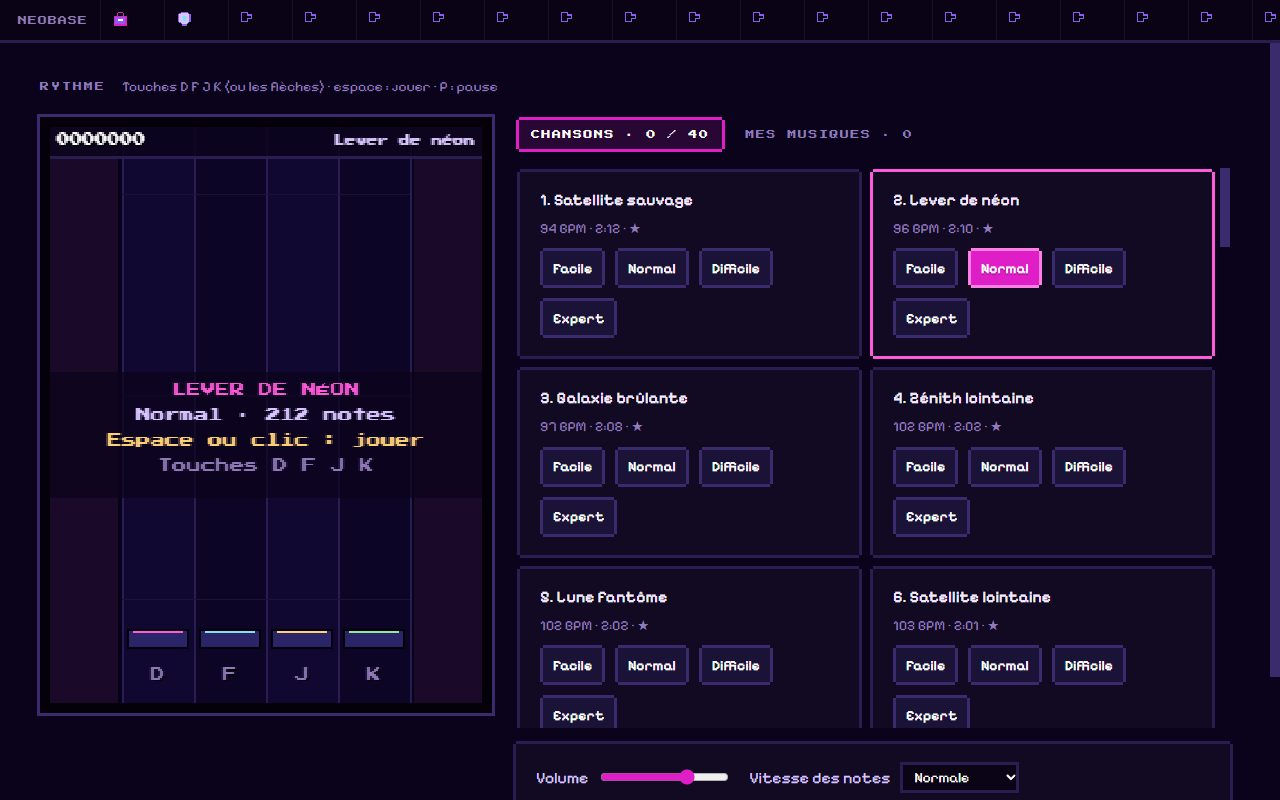
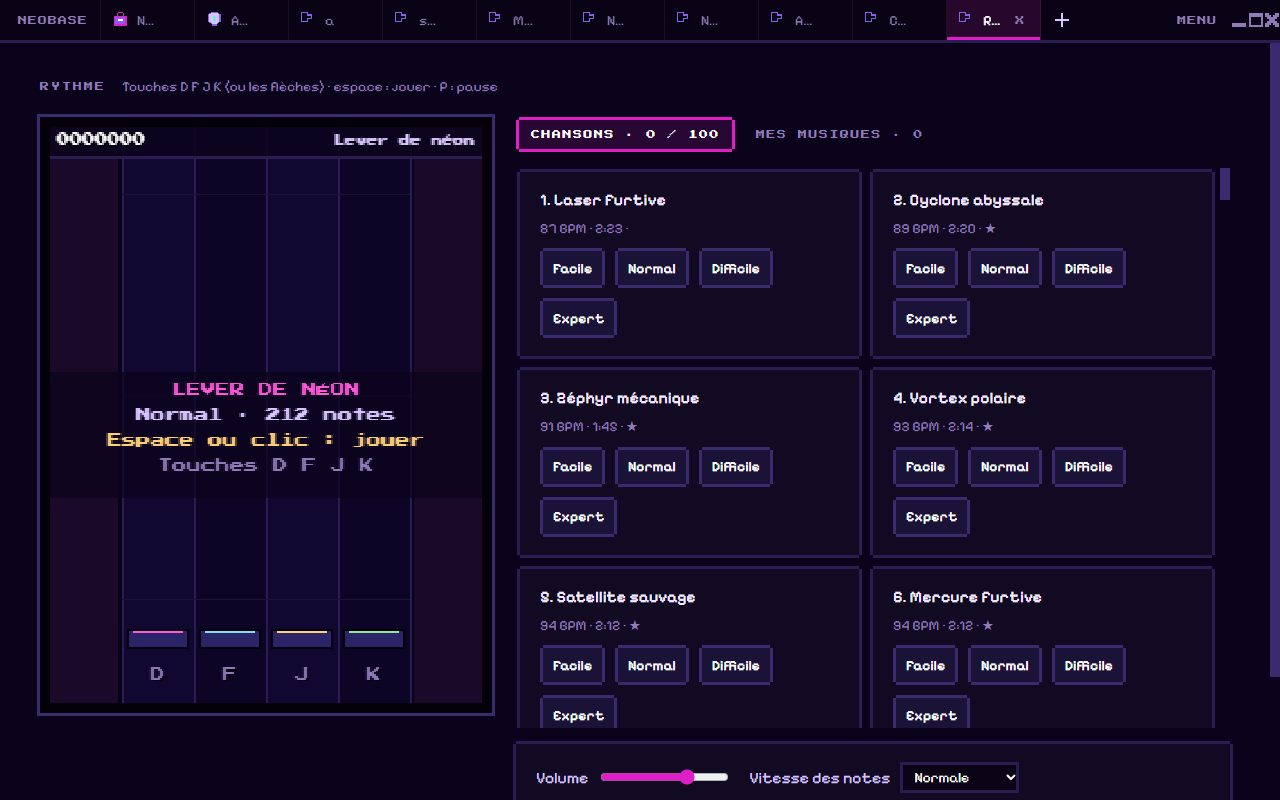
Nouvelles musiques

diff --git a/index.js b/index.js
@@ -77,7 +77,7 @@ const RH = {W: 240, H: 320, HIT: 284, LANES: 4, LW: 40, X0: 40, KEYS: [['d', 'Ar
   WIN: [[.045, 'PARFAIT', 300, '#ffd07a'], [.09, 'BIEN', 200, '#8ee8a0'], [.14, 'OK', 100, '#7fe0ee']]};
 const RH_SCALES = {major: [0, 2, 4, 5, 7, 9, 11], minor: [0, 2, 3, 5, 7, 8, 10], dorian: [0, 2, 3, 5, 7, 9, 10], phrygian: [0, 1, 3, 5, 7, 8, 10],
   mixolydian: [0, 2, 4, 5, 7, 9, 10], lydian: [0, 2, 4, 6, 7, 9, 11], harmonic: [0, 2, 3, 5, 7, 8, 11]};
-// the 6 first songs, then 34 more made from seeded choices: names, tempo going up, scale, chords, groove (drums) and lead sound
+// the 6 first songs, then 34 more, then 60 more made from seeded choices (100 in all, none alike): names, tempo going up, scale, chords, groove (drums) and lead sound
 const RH_SONGS = [
   {name: 'Lever de néon', bpm: 96, seed: 11, mode: 'major', prog: [0, 5, 3, 4], root: 48},
   {name: 'Course de pixels', bpm: 124, seed: 23, mode: 'minor', prog: [0, 5, 2, 6], root: 45},
@@ -96,19 +96,37 @@ const RH_SONGS = [
       out.push({name, bpm: Math.round(90 + i * 3.1 + r() * 10), seed: 100 + i * 13, mode: modes[Math.floor(r() * modes.length)], prog: progs[Math.floor(r() * progs.length)],
         root: 43 + Math.floor(r() * 9), groove: grooves[Math.floor(r() * grooves.length)], wave: waves[Math.floor(r() * waves.length)]});
     }
+    // 60 de plus : d'autres mots, des structures, des arpèges et des densités de mélodie différents (les 40 premières restent telles quelles)
+    const A2 = ['Mirage', 'Vortex', 'Cyclone', 'Lagune', 'Volcan', 'Tonnerre', 'Mercure', 'Orion', 'Saturne', 'Titan', 'Andromède', 'Lyre', 'Phénix', 'Dragon', 'Corail', 'Cobalt', 'Ambre', 'Jade', 'Opale', 'Rubis', 'Zéphyr', 'Néon', 'Radar', 'Turbine', 'Laser'];
+    const B2 = ['arctique', 'solaire', 'vertigineuse', 'cosmique', 'aveugle', 'sauvage', 'brisée', 'liquide', 'cybernétique', 'sacrée', 'éclatante', 'muette', 'enchantée', 'orbitale', 'abyssale', 'radieuse', 'furtive', 'cristalline', 'astrale', 'volante', 'pixelisée', 'ardente', 'polaire', 'stellaire', 'mécanique'];
+    const arps = [[0, 2, 4, 7], [0, 4, 7, 4], [0, 7, 4, 2], [0, 2, 7, 4], [4, 2, 0, 2], [0, 4, 2, 7]], r2 = seeded(7331);
+    for (let i = 0; i < 60; i++) {
+      let name; do name = A2[Math.floor(r2() * A2.length)] + ' ' + B2[Math.floor(r2() * B2.length)]; while (used.has(name)); used.add(name);
+      out.push({name, bpm: Math.round(86 + i * 1.65 + r2() * 6), seed: 1000 + i * 29, mode: modes[Math.floor(r2() * modes.length)], prog: progs[Math.floor(r2() * progs.length)],
+        root: 41 + Math.floor(r2() * 12), groove: grooves[Math.floor(r2() * grooves.length)], wave: waves[Math.floor(r2() * waves.length)],
+        form: i % 4, arp: arps[Math.floor(r2() * arps.length)], dens: Math.round((.8 + r2() * .45) * 100) / 100});
+    }
     return out;
   })(),
+];
+console.assert(RH_SONGS.length === 100 && new Set(RH_SONGS.map(s => s.name)).size === 100 && new Set(RH_SONGS.map(s => s.seed)).size === 100, 'rythme : 100 chansons différentes');
+// la structure d'une chanson : [partie, nombre de mesures] (0 = celle des 40 premières)
+const RH_FORMS = [
+  [['intro', 4], ['A', 8], ['B', 8], ['A', 8], ['pont', 4], ['B', 8], ['A', 8], ['outro', 4]],
+  [['intro', 4], ['A', 8], ['A', 8], ['B', 8], ['pont', 4], ['B', 8], ['B', 8], ['outro', 4]],
+  [['intro', 2], ['A', 8], ['B', 8], ['pont', 4], ['A', 8], ['B', 8], ['outro', 2]],
+  [['intro', 4], ['A', 8], ['B', 8], ['A', 8], ['pont', 8], ['B', 8], ['A', 8], ['B', 8], ['outro', 4]],
 ];
 const RH_DIFFS = {facile: 'Facile', normal: 'Normal', difficile: 'Difficile', expert: 'Expert'};
 const midiHz = m => 440 * 2 ** ((m - 69) / 12);
 function rhCompose(song) {  // -> {events: sounds to play, lead: melody notes, len: seconds}
   const r = seeded(song.seed), sc = RH_SCALES[song.mode], step = 60 / song.bpm / 4, events = [], lead = [], groove = song.groove || 'classic';
   const deg = d => song.root + 12 * Math.floor(d / 7) + sc[((d % 7) + 7) % 7];
-  const SECTIONS = [['intro', 4], ['A', 8], ['B', 8], ['A', 8], ['pont', 4], ['B', 8], ['A', 8], ['outro', 4]];
+  const SECTIONS = RH_FORMS[song.form || 0];
   const motif = kind => {  // a 2-bar melody: onsets on the 16th grid, scale degrees
     const out = []; let d = 9 + Math.floor(r() * 3);
     for (let s = 0; s < 32; s++) {
-      const strong = s % 8 === 0 ? .95 : s % 4 === 0 ? .7 : s % 2 === 0 ? (kind === 'B' ? .55 : .4) : (kind === 'B' ? .22 : .1);
+      const strong = (s % 8 === 0 ? .95 : s % 4 === 0 ? .7 : s % 2 === 0 ? (kind === 'B' ? .55 : .4) : (kind === 'B' ? .22 : .1)) * (song.dens || 1);
       if (r() < strong) { d += [-2, -1, -1, 0, 1, 1, 2, 3, -3][Math.floor(r() * 9)]; d = Math.max(5, Math.min(16, d)); out.push({s, d}); }
     }
     out.forEach((n, i) => n.len = Math.min(8, (out[i + 1]?.s ?? 32) - n.s));
@@ -127,7 +145,7 @@ function rhCompose(song) {  // -> {events: sounds to play, lead: melody notes, l
         if (kind !== 'intro' && kind !== 'outro' && kind !== 'pont' && snareAt(s)) events.push({t, k: 'snare', v: .8});
         if (s % (kind === 'B' ? 1 : 2) === 0 && kind !== 'pont') events.push({t, k: 'hat', v: s % 4 === 2 ? .6 : .35});
         if (s % 2 === 0 && kind !== 'intro') events.push({t, k: 'bass', f: midiHz(deg(chord) - 12 + (s % 4 === 2 ? 12 : 0)), d: step * 1.8, v: .55 * energy});
-        if (kind === 'B' || kind === 'pont') events.push({t, k: 'arp', f: midiHz(deg(chord + [0, 2, 4, 7][s % 4]) + 12), d: step * .9, v: .16});
+        if (kind === 'B' || kind === 'pont') events.push({t, k: 'arp', f: midiHz(deg(chord + (song.arp || [0, 2, 4, 7])[s % 4]) + 12), d: step * .9, v: .16});
       }
       if (kind === 'A' || kind === 'B') {
         const m = motifs[kind], half = b % 2, varied = b >= 6;
